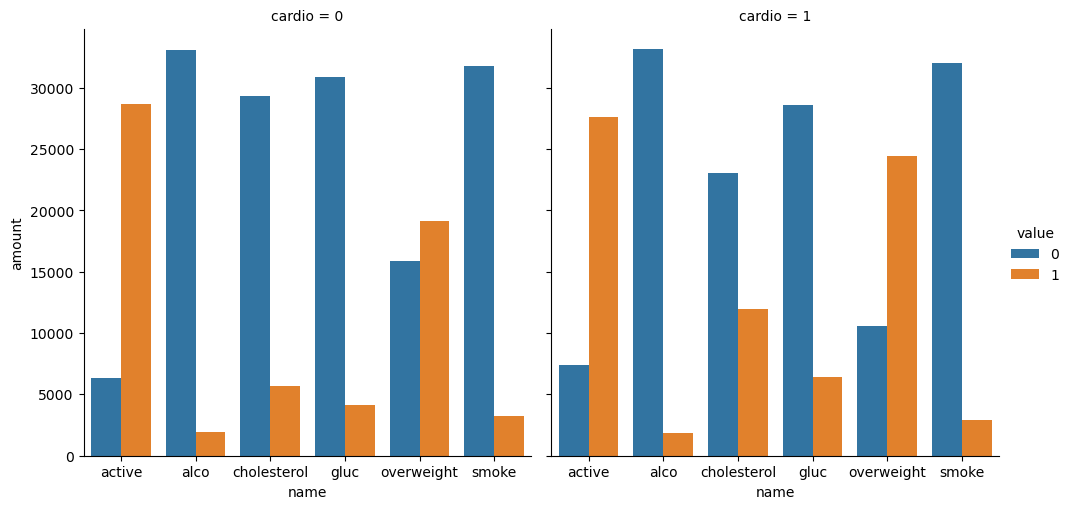
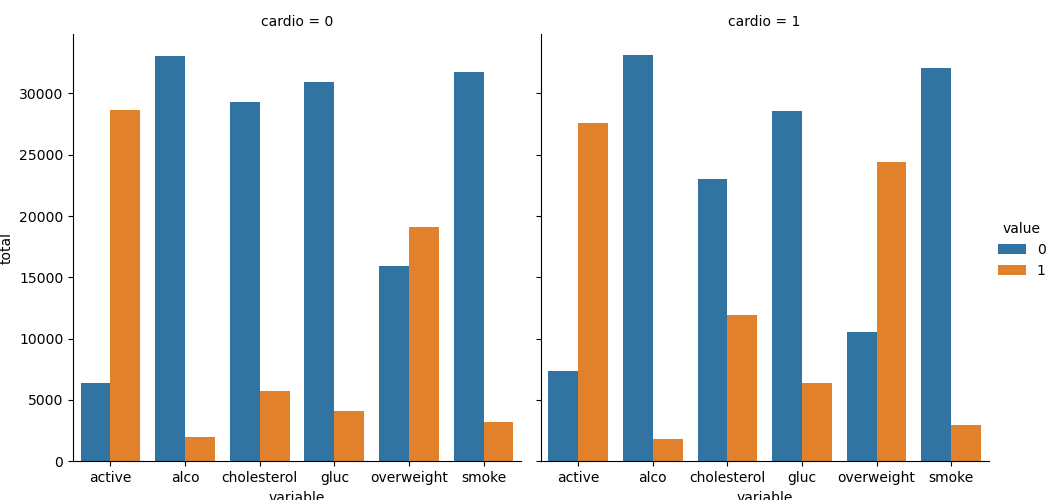
Final version that works (hopefully)

diff --git a/medical_data_visualizer.py b/medical_data_visualizer.py
@@ -7,7 +7,7 @@ import numpy as np
 df = pd.read_csv("medical_examination.csv")
 
 # Add 'overweight' column
-df['overweight'] = list(map(lambda w, h: 1 if w/((h/100)**2) > 25 else 0, df['weight'].tolist(), df['height'].tolist()))
+df['overweight'] = list(map(lambda w, h: 1 if w/((h/100)**2) > 25 else 0, df['weight'], df['height']))
 
 # Normalize data by making 0 always good and 1 always bad. If the value of 'cholestorol' or 'gluc' is 1, make the value 0. If the value is more than 1, make the value 1.
 
@@ -36,21 +36,26 @@ def draw_cat_plot():
 	df_cat['cardio'] = df['cardio'].tolist()*6
 	df_cat = df_cat.sort_values(by=['cardio'])
 	print(df_cat)
-	df_cat = df_cat.head(210126).groupby(['variable']).sum().append(df_cat.tail(209874).groupby(['variable']).sum())
+	totalrows = df_cat.shape[0]
+	cardioindex = df_cat['cardio'].to_list().index(1)
+	df_cat = df_cat.head(cardioindex).groupby(['variable']).sum().append(df_cat.tail(totalrows-cardioindex).groupby(['variable']).sum())
 	df_cat['cardio'] = list(map(lambda x: int(x if x == 0 else x/abs(x)), df_cat['cardio']))
 	df_cat['name'] = df_cat.index.values
 	df_cat['amount'] = df_cat['value']
 	df_cat['value'] = [1 for thing in df_cat['name']]
 	df_cat2 = df_cat.copy()
 	df_cat2['value'] = [0 for thing in df_cat2['name']]
-	df_cat2['amount'] = [35021-df_cat['amount'][i] if df_cat['cardio'][i] == 0 else 34979-df_cat['amount'][i] for i in range(len(df_cat['amount']))]
+	df_cat2['amount'] = [int(cardioindex/6)-df_cat['amount'][i] if df_cat['cardio'][i] == 0 else int((totalrows-cardioindex)/6)-df_cat['amount'][i] for i in range(len(df_cat['amount']))]
 	df_cat = df_cat.append(df_cat2)
+	df_cat['variable'] = df_cat['name']
+	df_cat['total'] = df_cat['amount']
 	print(df_cat)
 
 
     # Draw the catplot with 'sns.catplot()'
 
-	fig = sns.catplot(data = df_cat, x = 'name', y = 'amount', col = 'cardio', kind = 'bar', hue = 'value')
+	fig = sns.catplot(data = df_cat, x = 'variable', y = 'total', col = 'cardio', kind = 'bar', hue = 'value')
+	fig = fig.fig
 
 
     # Do not modify the next two lines
@@ -65,21 +70,23 @@ def draw_heat_map():
 	df_heat['ap_lo'] = list(map(lambda x, y: None if x > y else x, df_heat['ap_lo'], df_heat['ap_hi']))
 	toProcess = ['height', 'weight']
 	for thing in toProcess:
-		df_heat[thing] = list(map(lambda x: None if x < df_heat[thing].quantile(0.025) or x > df_heat[thing].quantile(0.975) else x, df_heat[thing]))
+		low, high = df_heat[thing].quantile(0.025), df_heat[thing].quantile(0.975)
+		df_heat[thing] = list(map(lambda x: None if x < low or x > high else float(x), df_heat[thing]))
+	df_heat.dropna(inplace = True)
 
 
     # Calculate the correlation matrix
-	corr = df_heat.corr().round(2)
+	corr = df_heat.corr().round(1)
 
     # Generate a mask for the upper triangle
 	mask = np.array([[(x>=y) for x in range(corr.shape[0])] for y in range(corr.shape[0])])
 
     # Set up the matplotlib figure
-	fig = plt.figure()
+	fig, ax = plt.subplots(figsize=(7,7))
 
     # Draw the heatmap with 'sns.heatmap()'
 
-	sns.heatmap(corr, annot = True, mask = mask)
+	sns.heatmap(corr, annot = True, mask = mask, fmt = '.1f')
 
 
     # Do not modify the next two lines

diff --git a/test_module.py b/test_module.py
@@ -8,7 +8,7 @@ class CatPlotTestCase(unittest.TestCase):
     def setUp(self):
         self.fig = medical_data_visualizer.draw_cat_plot()
         self.ax = self.fig.axes[0]
-    
+
     def test_line_plot_labels(self):
         actual = self.ax.get_xlabel()
         expected = "variable"
@@ -39,12 +39,12 @@ class HeatMapTestCase(unittest.TestCase):
           actual.append(label.get_text())
         expected = ['id', 'age', 'gender', 'height', 'weight', 'ap_hi', 'ap_lo', 'cholesterol', 'gluc', 'smoke', 'alco', 'active', 'cardio', 'overweight']
         self.assertEqual(actual, expected, "Expected bar plot legend labels to be months of the year.")
-    
+
     def test_heat_map_values(self):
         actual = [text.get_text() for text in self.ax.get_default_bbox_extra_artists() if isinstance(text, mpl.text.Text)]
         print(actual)
         expected = ['0.0', '0.0', '-0.0', '0.0', '-0.1', '0.5', '0.0', '0.1', '0.1', '0.3', '0.0', '0.0', '0.0', '0.0', '0.0', '0.0', '0.2', '0.1', '0.0', '0.2', '0.1', '0.0', '0.1', '-0.0', '-0.1', '0.1', '0.0', '0.2', '0.0', '0.1', '-0.0', '-0.0', '0.1', '0.0', '0.1', '0.4', '-0.0', '-0.0', '0.3', '0.2', '0.1', '-0.0', '0.0', '0.0', '-0.0', '-0.0', '-0.0', '0.2', '0.1', '0.1', '0.0', '0.0', '0.0', '0.0', '0.3', '0.0', '-0.0', '0.0', '-0.0', '-0.0', '-0.0', '0.0', '0.0', '-0.0', '0.0', '0.0', '0.0', '0.2', '0.0', '-0.0', '0.2', '0.1', '0.3', '0.2', '0.1', '-0.0', '-0.0', '-0.0', '-0.0', '0.1', '-0.1', '-0.1', '0.7', '0.0', '0.2', '0.1', '0.1', '-0.0', '0.0', '-0.0', '0.1']
-        self.assertEqual(actual, expected, "Expected differnt values in heat map.")
+        self.assertEqual(actual, expected, "Expected different values in heat map.")
 
 if __name__ == "__main__":
     unittest.main()
